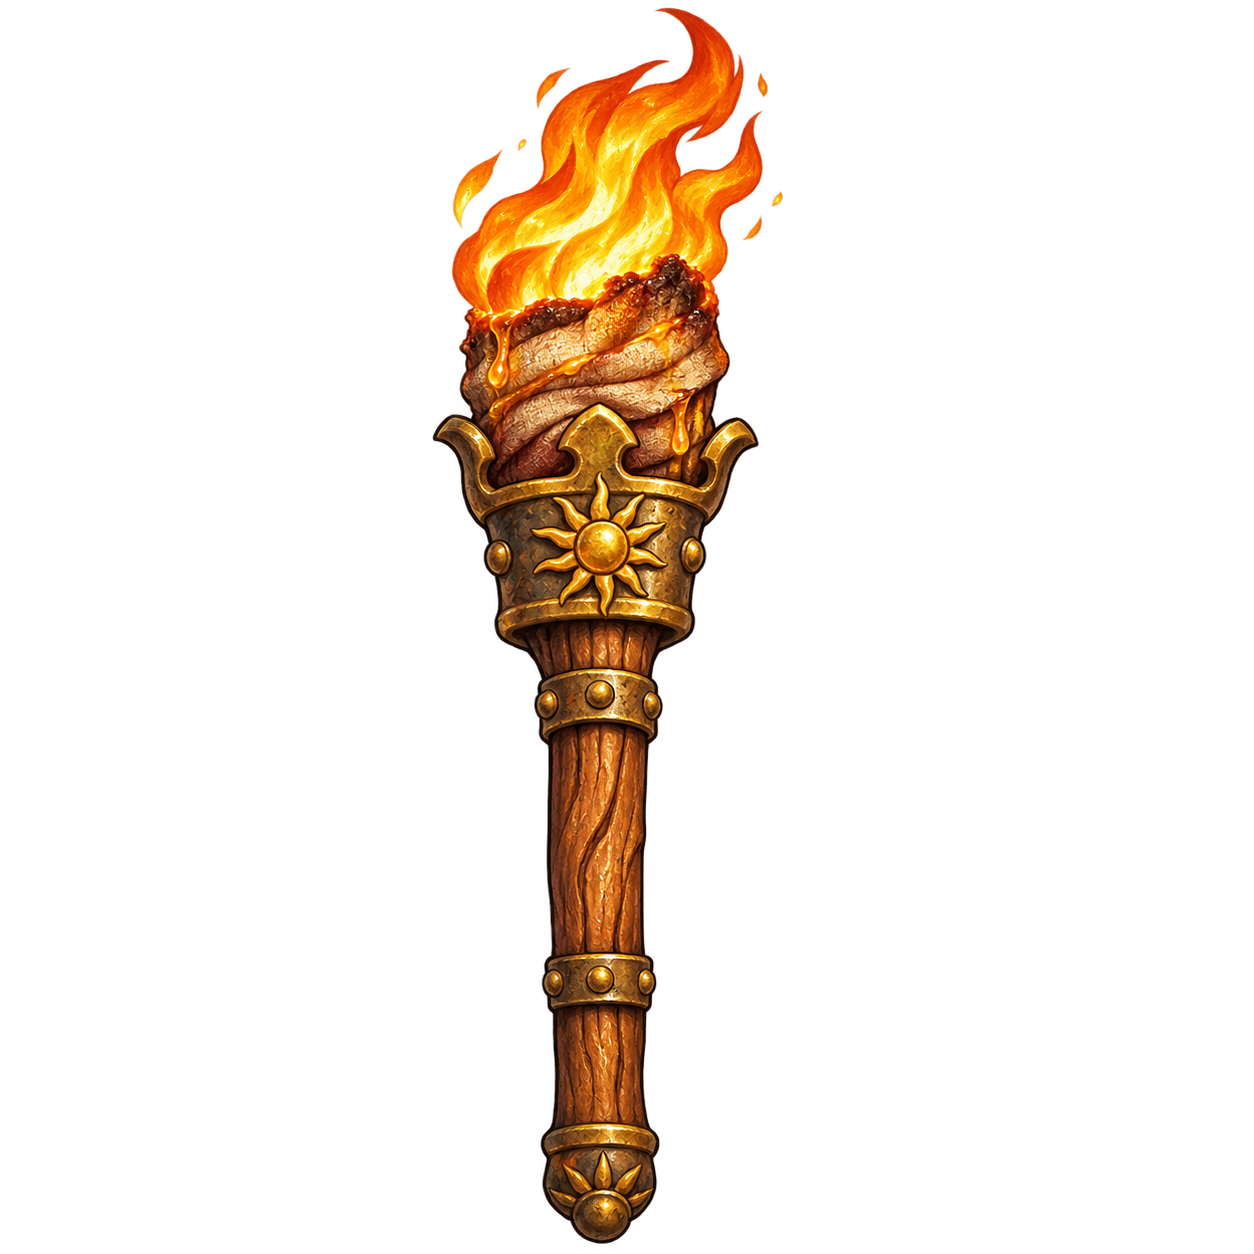
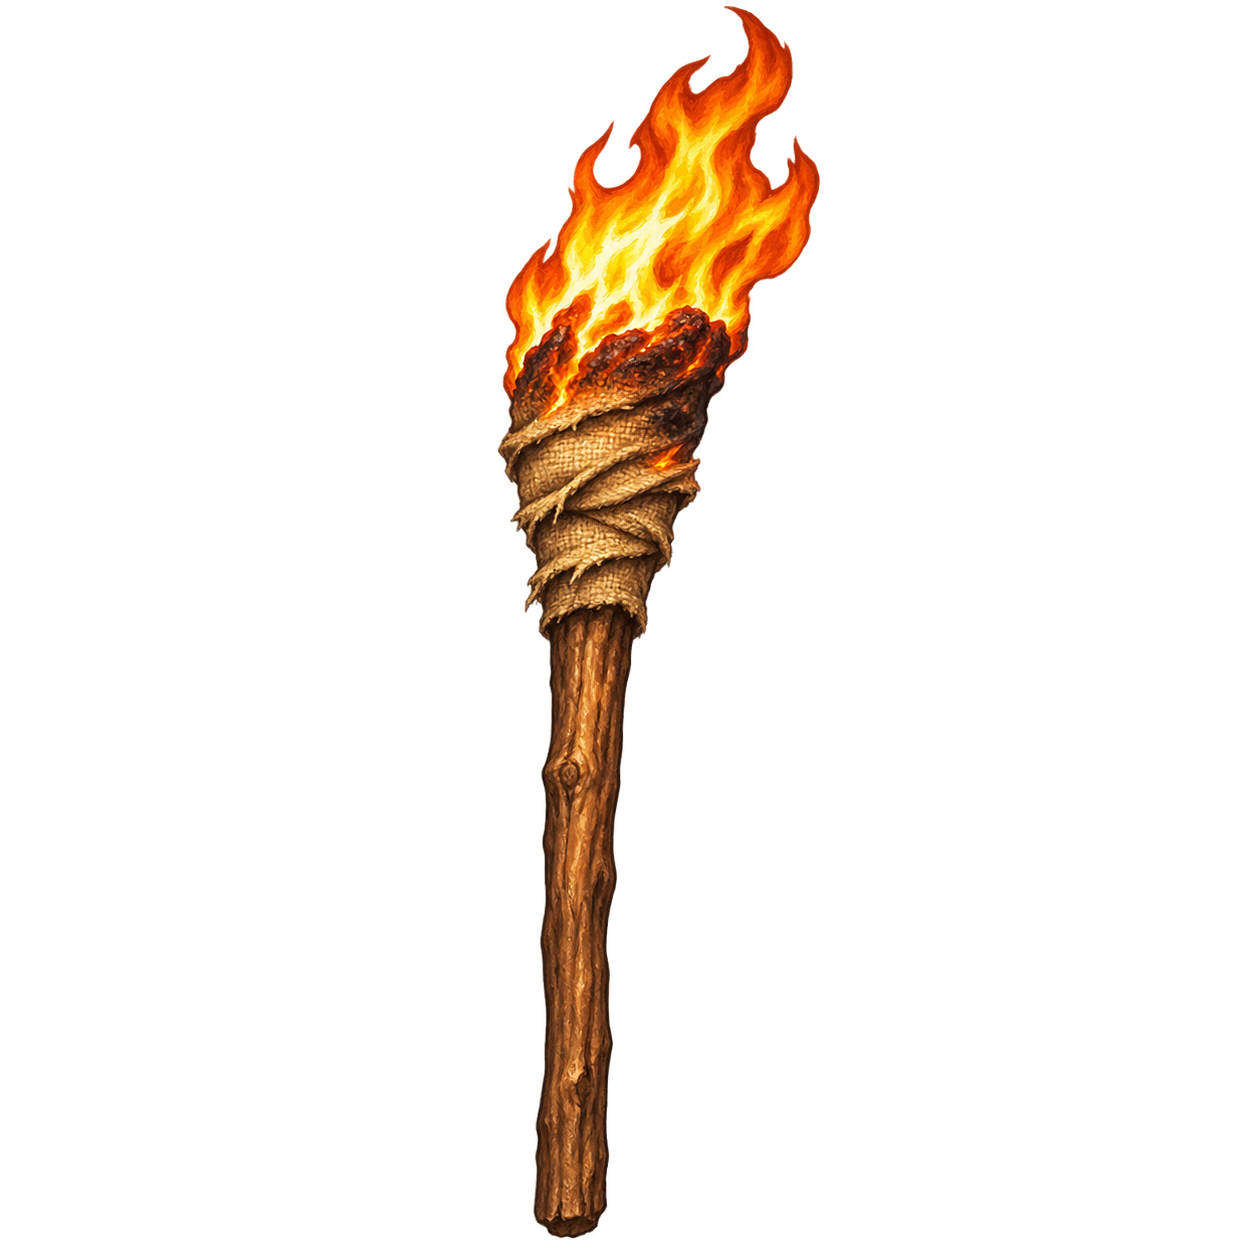
Use plain wooden torch artwork

Changed region(s): [[0.3421, 0.0, 0.6531, 0.9952]]

diff --git a/sdk.md b/sdk.md
@@ -25,7 +25,7 @@ These notes record the SDK behavior used by the extension. The extension current
 
 - Imports default to infinite fog fill, walls enabled, and primary lights. Each imported light is represented by a hidden, unlocked shared prop with `com.geezsheets/light` metadata containing its world radius and light type.
 - Each client renders a local light from that prop. The emitted light explicitly stays visible even though the shared prop has `visible: false`; moving, scaling or deleting the prop updates its light. The Add Light tool creates the same prop format.
-- `torch.png` is a generated transparent fantasy torch illustration saved for use as prop art. Built-in image generation prompt: "Single lit medieval wooden torch, hand-painted fantasy RPG token style, warm wood and aged brass, crisp dark outlines, sunburst collar, golden-orange flame, isolated on a transparent background, no text or UI." It is provided as an asset; the current light markers use circles.
+- `torch.png` is a generated transparent ordinary torch illustration saved for use as prop art. Built-in image generation prompt: "One plain medieval wooden torch, a rough brown wooden stick with a coarse cloth-wrapped burning head, orange-yellow fire, warm hand-painted tabletop RPG prop style, dark outlines, natural wood grain, transparent background. No metal, ornaments, emblems, text, UI or scenery." It is provided as an asset; the current light markers use circles.
 
 - Static room fog is a shared `PATH` item on the `FOG` layer. `fillRule('evenodd')` supports holes within a room outline.
 - `buildSceneUpload().items(items)` embeds shared items in the uploaded scene. Use this for fog so it exists immediately, even if the background page fails to initialize.
